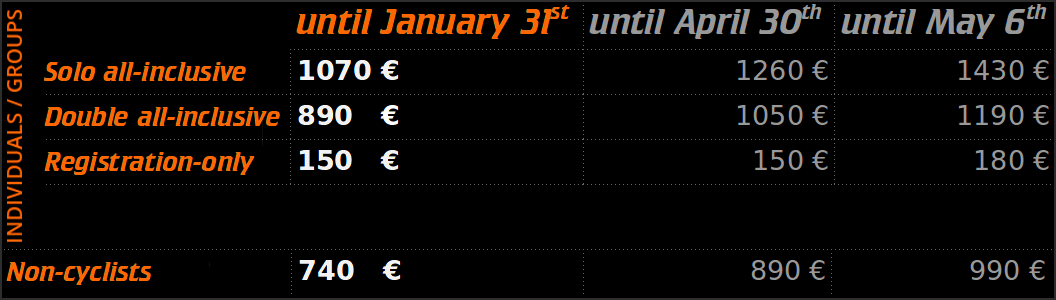
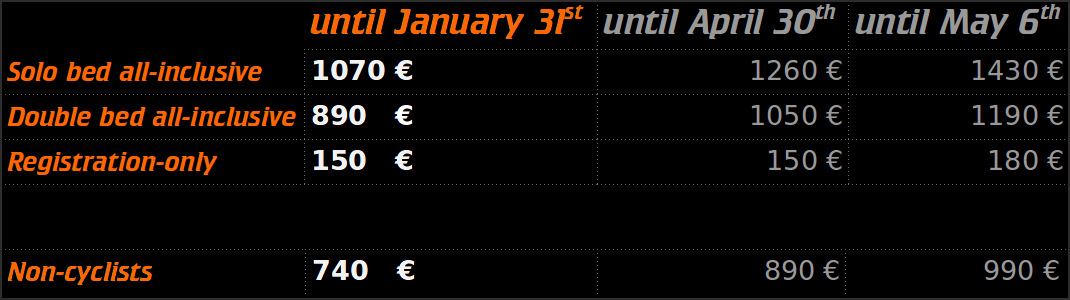
Updates pricelist better explaining solo vs double package

diff --git a/httpdocs/wp-content/themes/tourofcrete/style.css b/httpdocs/wp-content/themes/tourofcrete/style.css
@@ -222,7 +222,7 @@ a img {
 
 /* Custom class for //registration page -K */
 .imgpricelist {
-	max-width: 67%;
+	max-width: 66%;
 	position: relative;
 }
 
